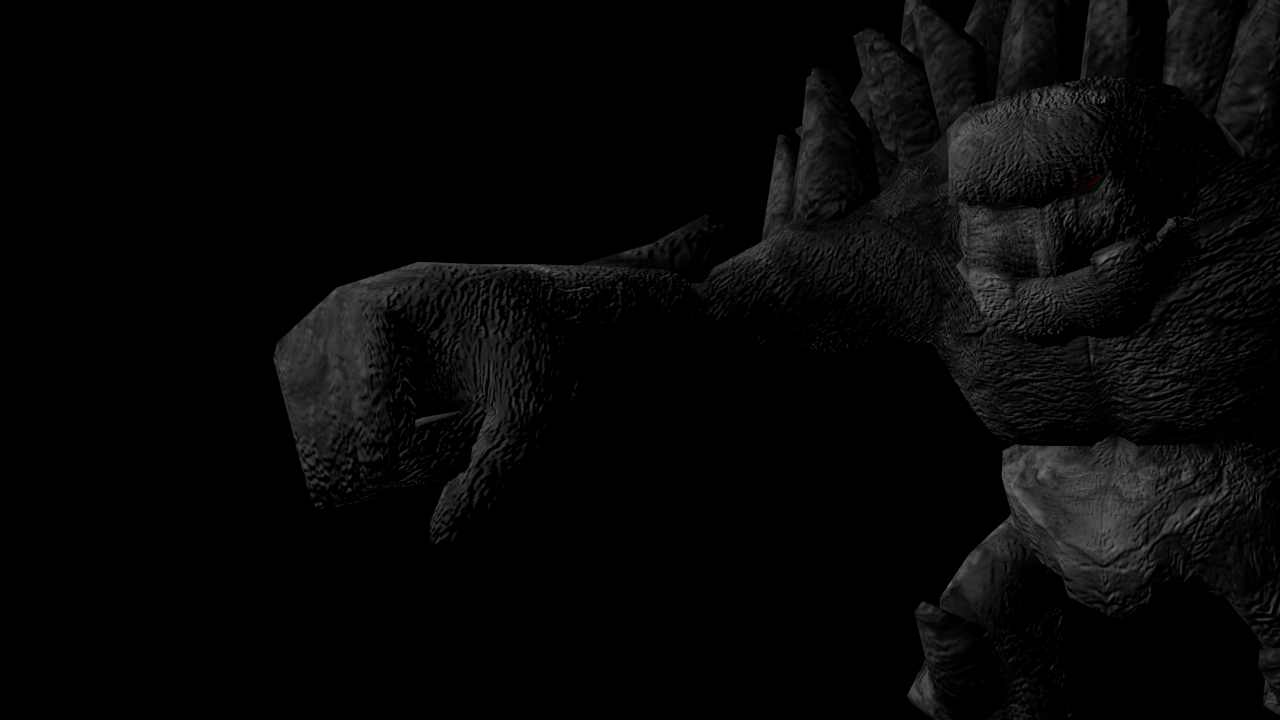
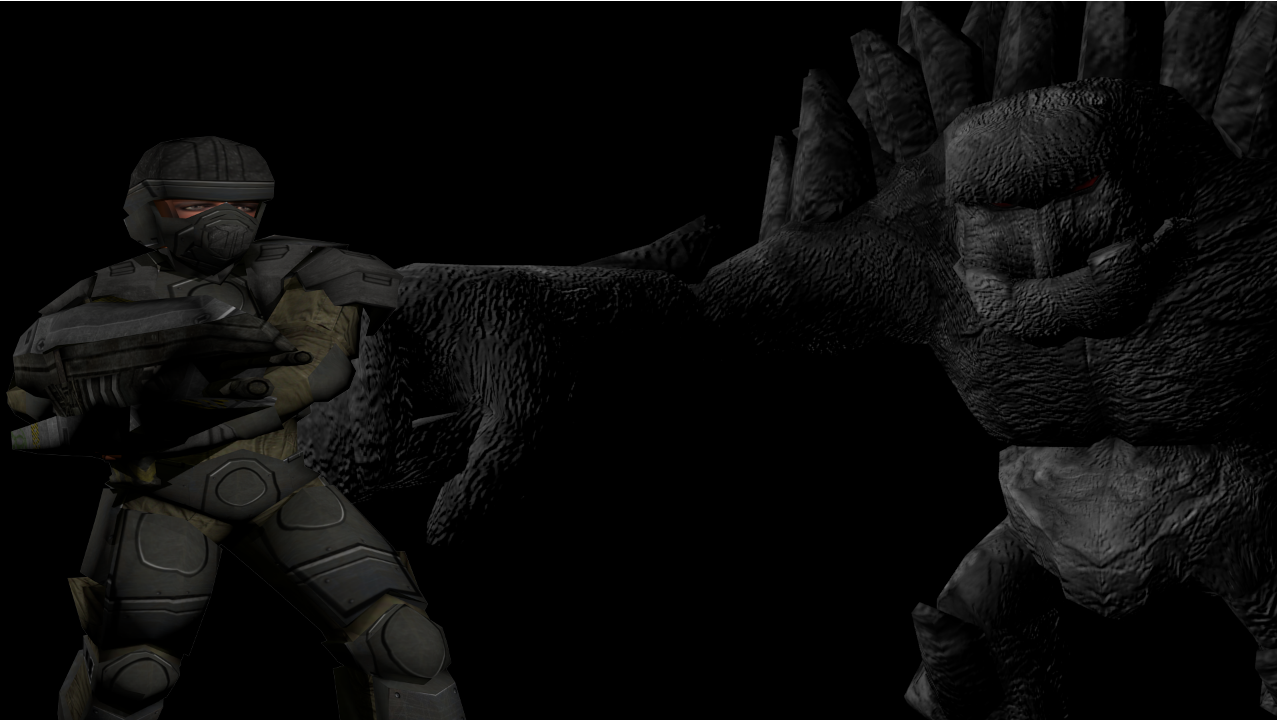
Added EliteSoldier to background image

diff --git a/ART_LICENSES.md b/ART_LICENSES.md
@@ -45,7 +45,7 @@ See CREDITS.md for attributions.
 - railgun.png
 - rocket_launger.png
 - like_a_pro.png
-- StoneFist.png (rendered from Rock Golem)
+- StoneFist.png (rendered from Rock Golem and Elite Soldier)
 - SealingBoulder.png
 - MineralArmor.png
 - MeteorBoom.wav
